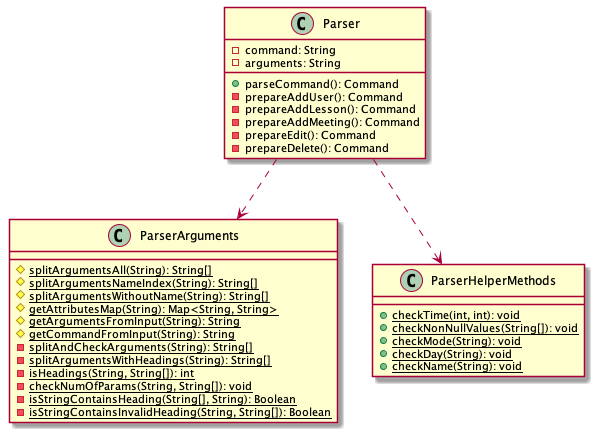
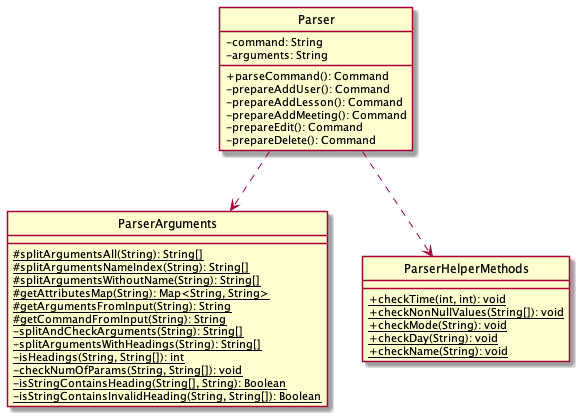
Add Parser components to DG

diff --git a/docs/DeveloperGuide.md b/docs/DeveloperGuide.md
@@ -29,7 +29,7 @@ The Parser and Command classes will also be called by Ui class in the process of
 The above partial class diagrams illustrate the classes inside the commands component
 that correspond to specific functionalities.
 
-The commands component consists of a commands package. Inside the package are the following classes:
+The commands component consists of a `commands` package. Inside the package are the following classes:
 1. An abstract `Command` class which other individual command classes inherit from.
 2. Individual Command classes which corresponding to a specific command based on the user's input.
 - `AddLessonCommand`
@@ -44,7 +44,19 @@ The commands component consists of a commands package. Inside the package are th
 - `ListCommand`
 3. Lastly, `CommandResult` class returns corresponding feedbacks to the user.
 
-##2.4 Parser Component
+## 2.4 Parser Component
+
+![ParserClassDiagram2](images/ParserClassDiagram.png)
+The above class diagram illustrates the classes within the `parser` package.
+
+The `parser` package includes:
+1. `Parser` 
+   - To parse the user input and call the respective functions or command objects based on the command word.
+2. `ParserArguments`
+   - To parse and split the arguments into array of parameters' values.
+3. `ParserHelperMethods`
+   - Contain helper methods to check if the values of the parameters are valid.
+
 ## 2.5 Timetable Component
 - Timetable
 - MasterTimetable
